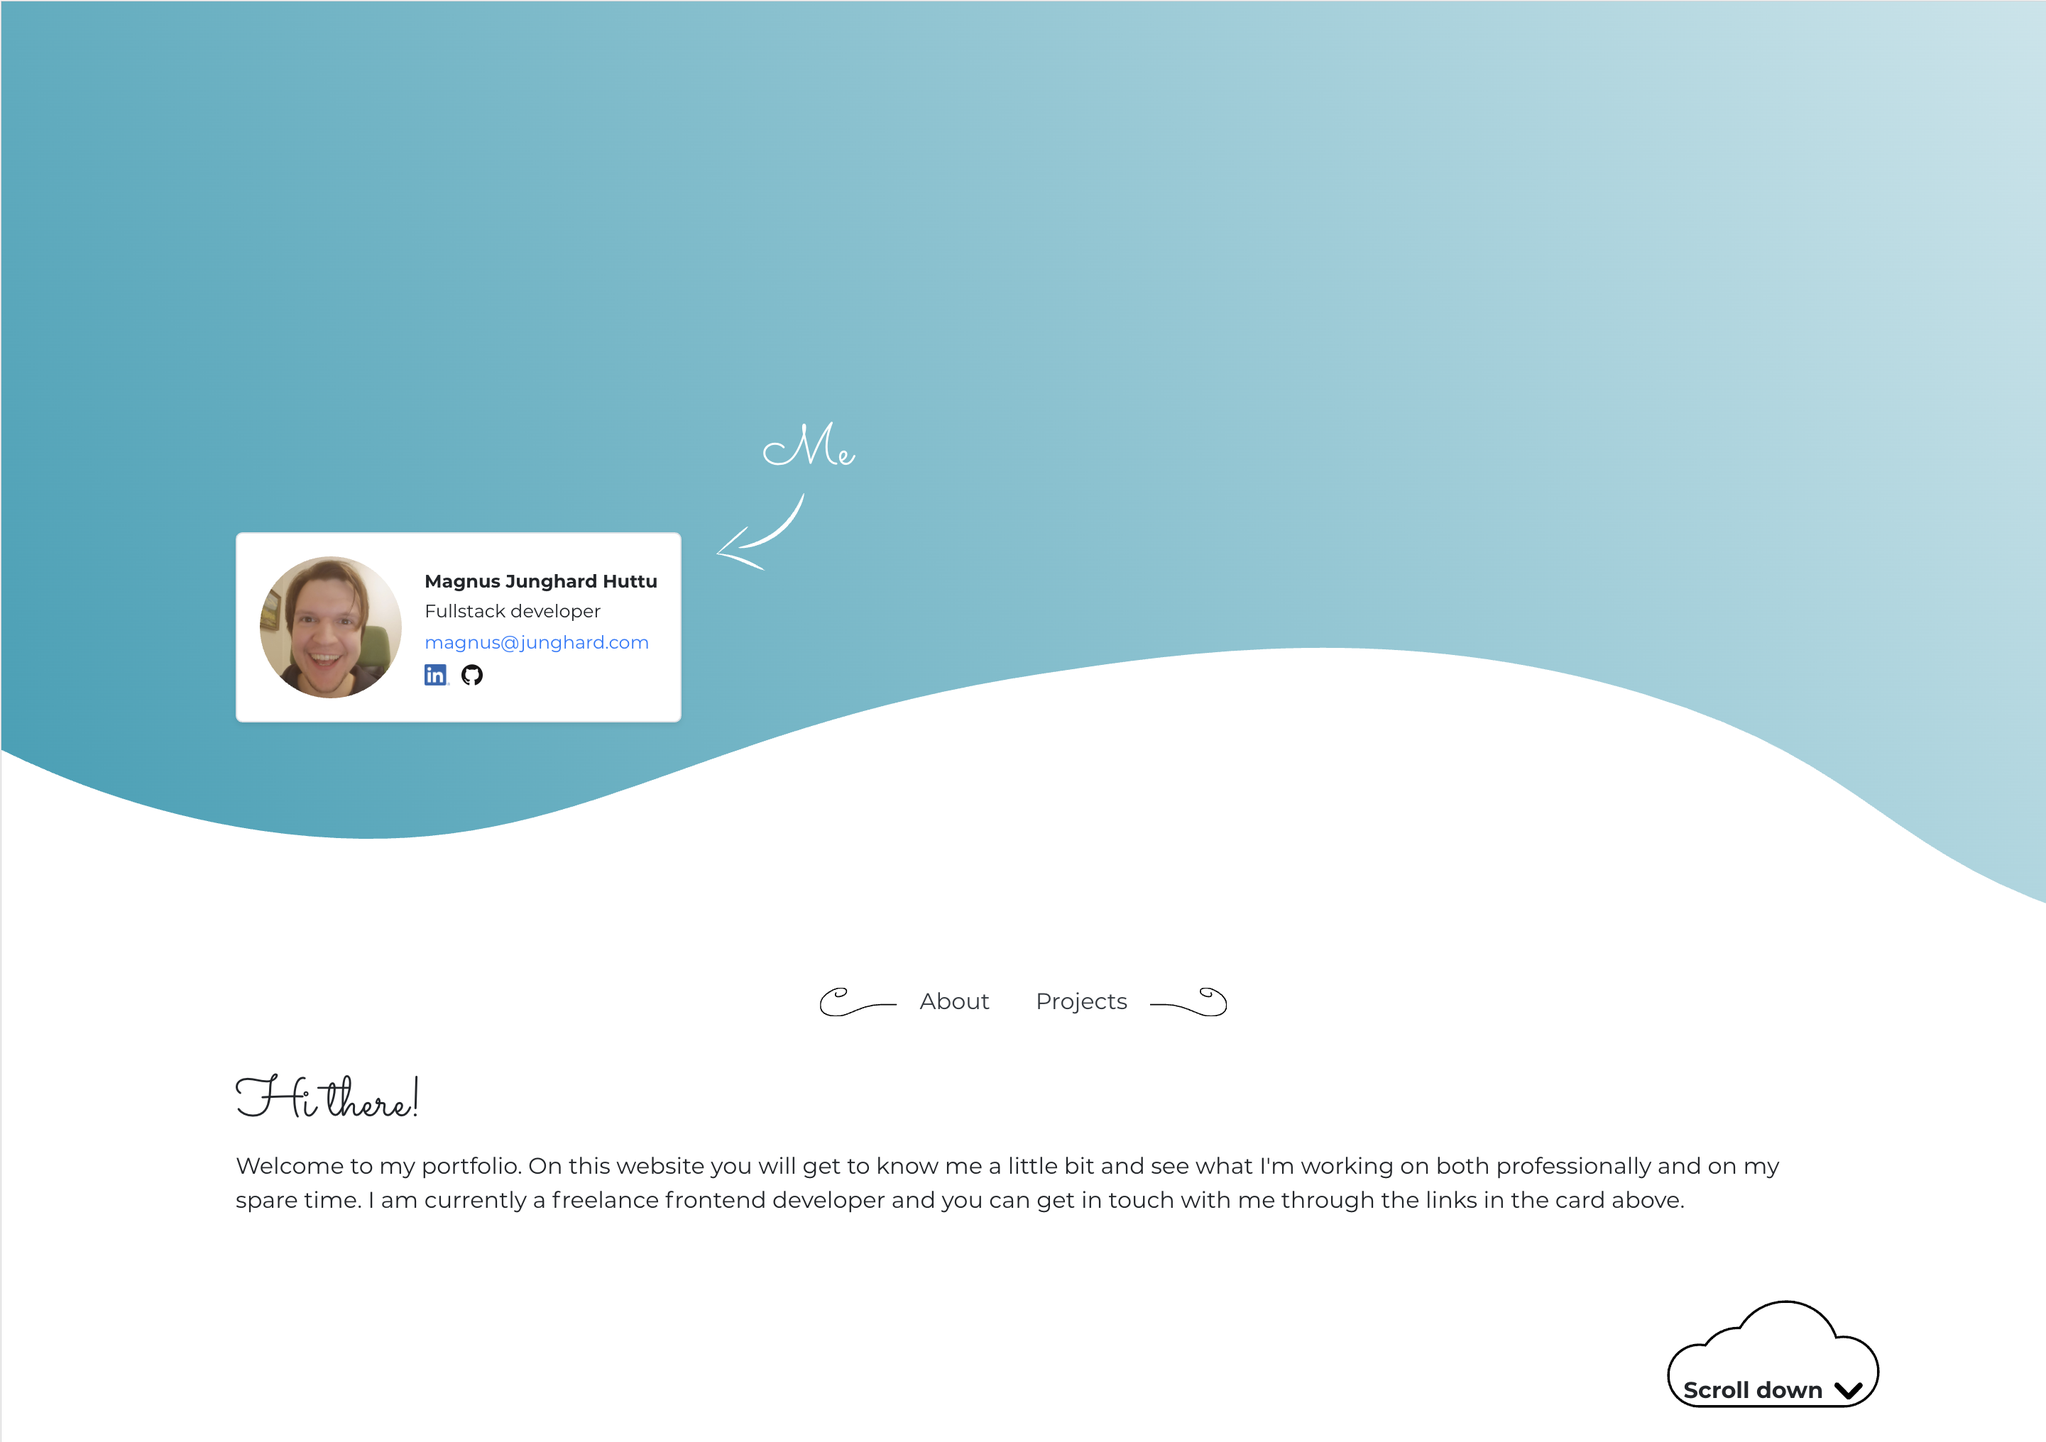
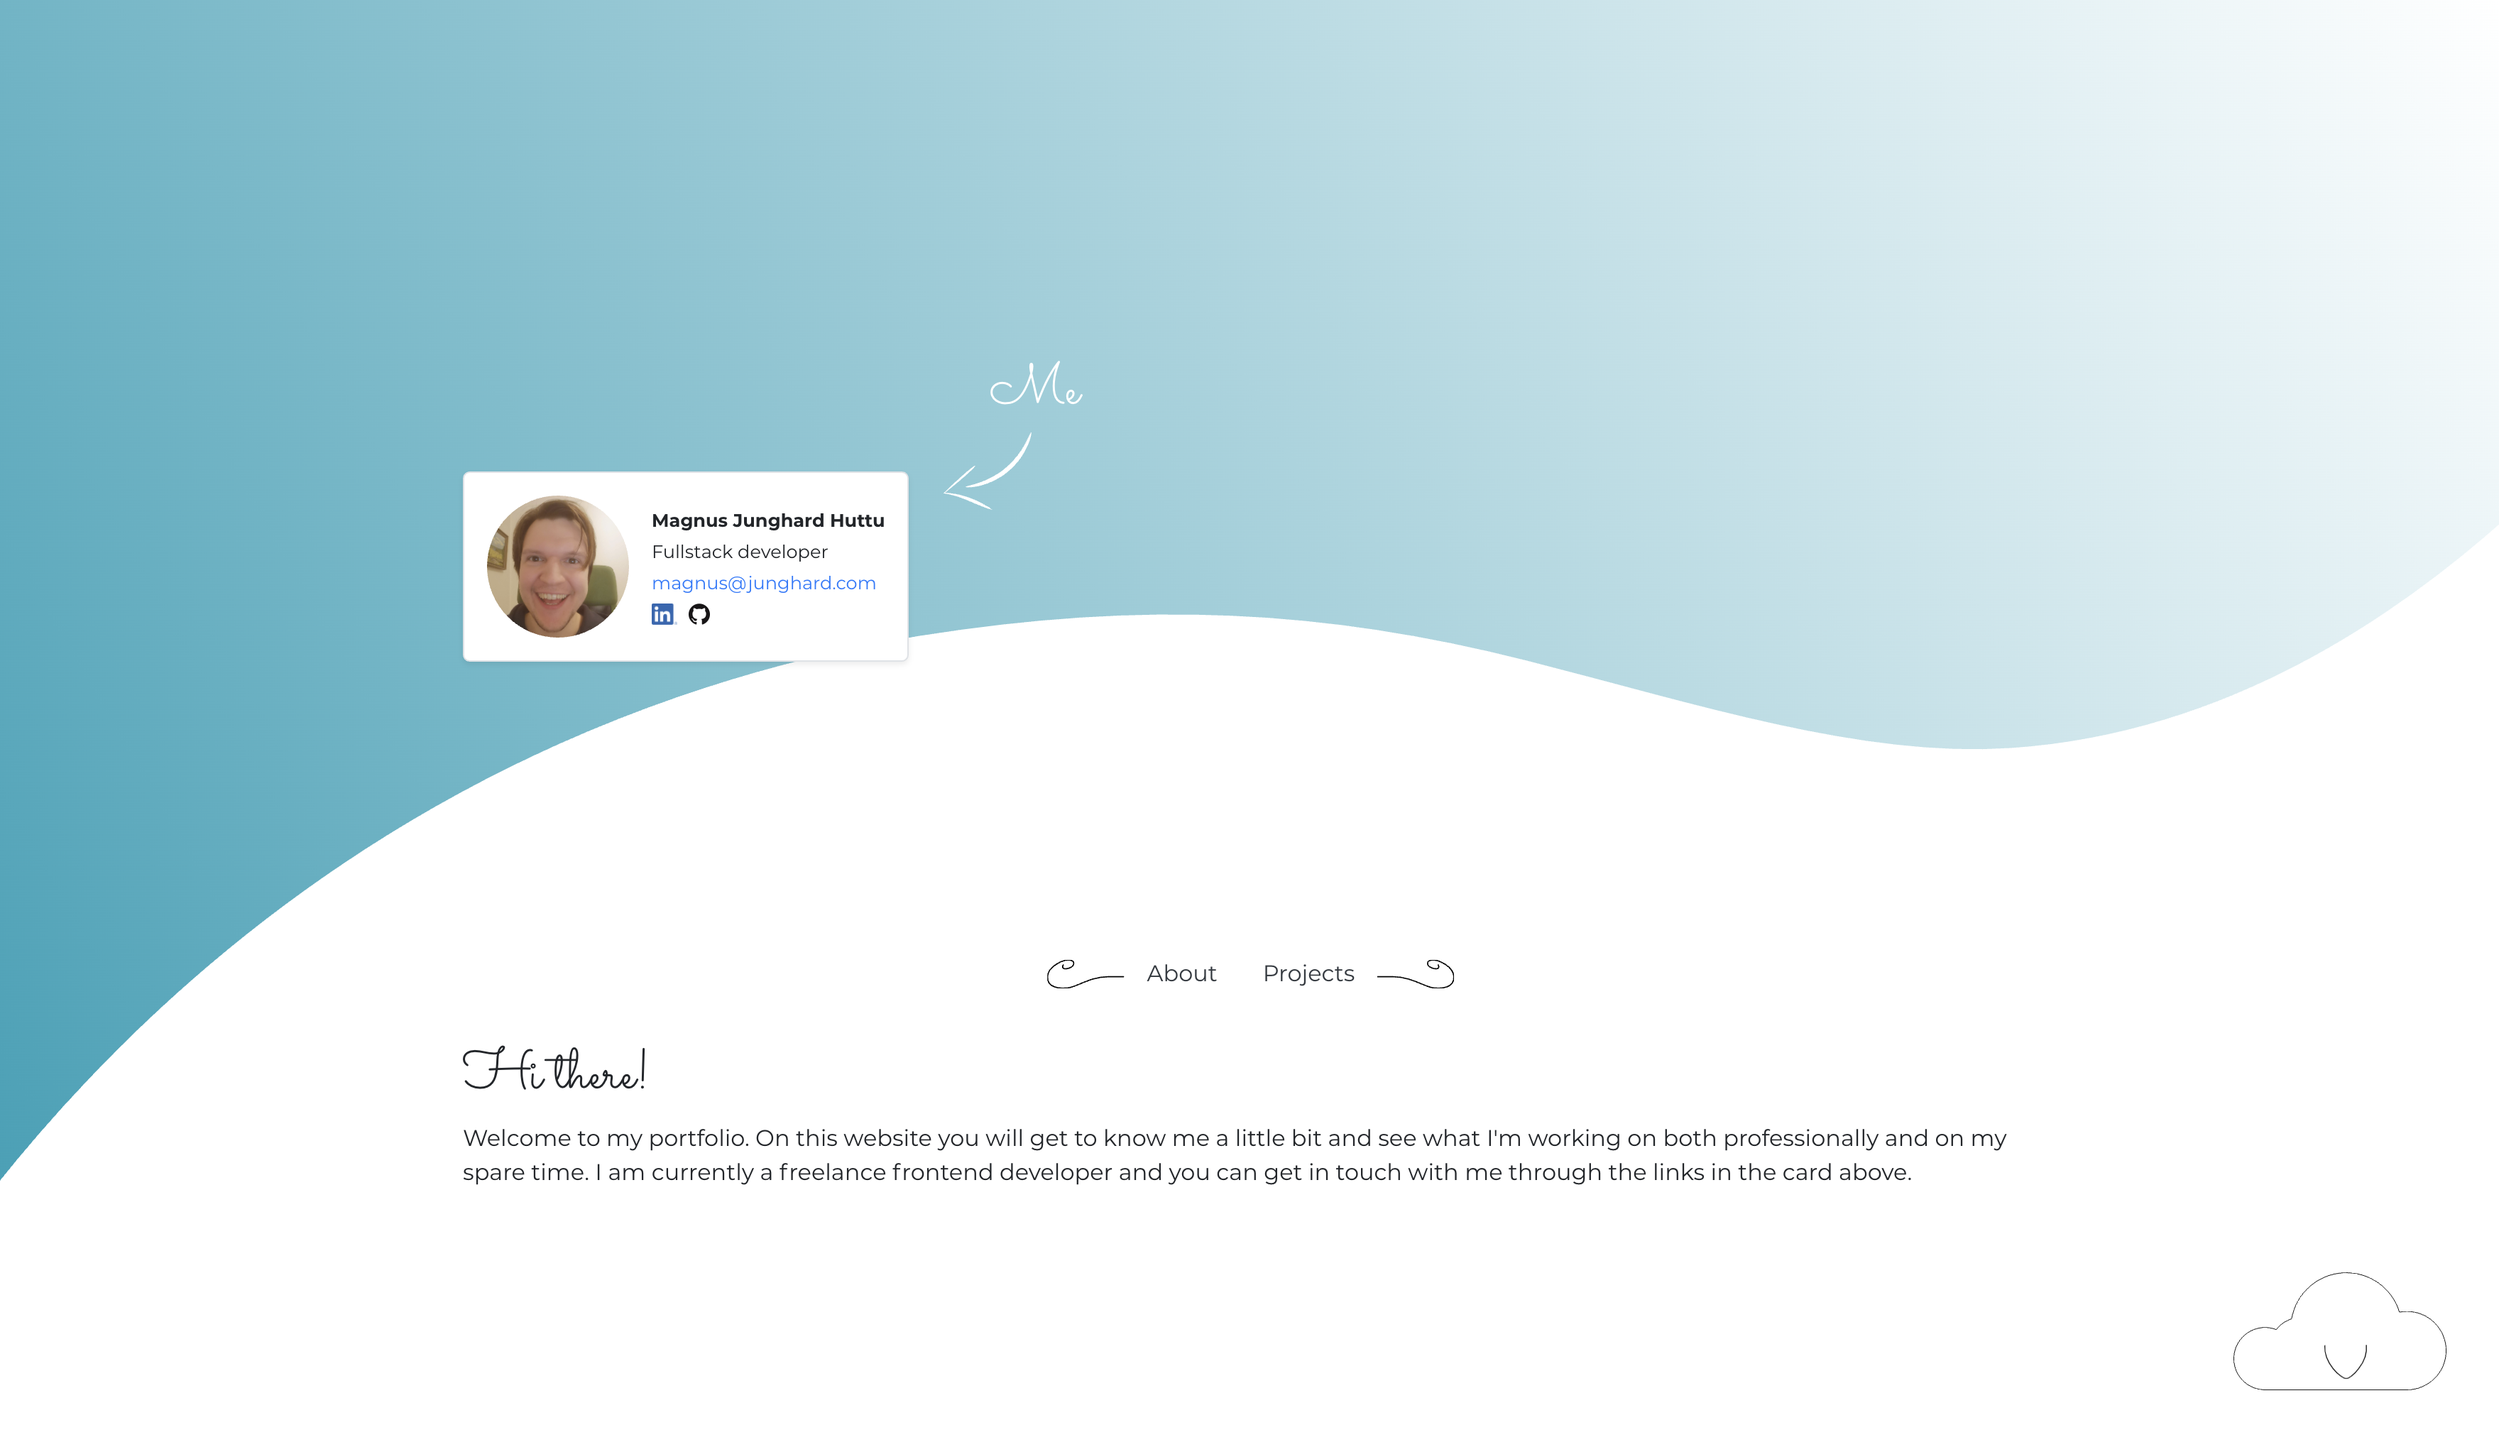
add new background image

diff --git a/src/views/home/Home.tsx b/src/views/home/Home.tsx
@@ -12,7 +12,7 @@ const Home: React.FC = () => {
   const animation = ([entry]: IntersectionObserverEntry[]) => {
     const magicCloud = document.getElementById('magic-cloud');
     if (magicCloud) {
-      magicCloud.setAttribute('style', 'left:' + (Math.min((entry.intersectionRatio - 0.3) * 200, 70)).toFixed(3) + 'vw');
+      magicCloud.setAttribute('style', 'left:' + (Math.min((entry.intersectionRatio - 0.3) * 150, 60)).toFixed(3) + 'vw');
     }
   }
 
@@ -56,8 +56,8 @@ const Home: React.FC = () => {
         </div>
         <div id="magic" className="position-relative d-none d-md-block">
           <div className="position-absolute" id="magic-cloud">
-            <img alt="cloud" src={cloud} width="150" />
-            <div className="scroll-text position-absolute d-flex justify-content-center align-items-center pt-5 font-weight-bold">Scroll down<img className="ml-2" width="20" alt="scroll down arrow" src={arrowDown}/></div>
+            <img alt="cloud" src={cloud} width="150" height="83" />
+            <div className="scroll-text position-absolute d-flex justify-content-center align-items-center pt-5 font-weight-bold"><img className="ml-2 animation-bounce" width="30" alt="scroll down arrow" src={arrowDown}/></div>
           </div>
         </div>
       </div>

diff --git a/src/views/home/Home.scss b/src/views/home/Home.scss
@@ -28,7 +28,25 @@
     #magic-cloud {
         top: -10px;
         width: 150px;
-        height: 80px;
+        height: auto;
+
+        .animation-bounce {
+            animation: bounce infinite 5s;
+        }
+
+        @keyframes bounce {
+            0% {
+                transform: translateY(0px);
+            }
+
+            50% {
+                transform: translateY(-10px);
+            }
+
+            100% {
+                transform: translateY(0);
+            }
+        }
 
         & + h1 {
             z-index: -2;

diff --git a/src/components/hero/Hero.tsx b/src/components/hero/Hero.tsx
@@ -1,8 +1,8 @@
 import React, { useState, useEffect } from 'react';
-import xlgBg from '../../assets/bg_xlg.svg';
-import largeBg from '../../assets/bg_lg.svg';
-import smallBg from '../../assets/bg_small.svg';
-import mediumBg from '../../assets/bg_md.svg';
+import xlgBg from '../../assets/bg_xlg.png';
+import largeBg from '../../assets/bg_lg.png';
+import smallBg from '../../assets/bg_sm.png';
+import mediumBg from '../../assets/bg_md.png';
 import './Hero.scss';
 
 const Hero: React.FC = () => {
